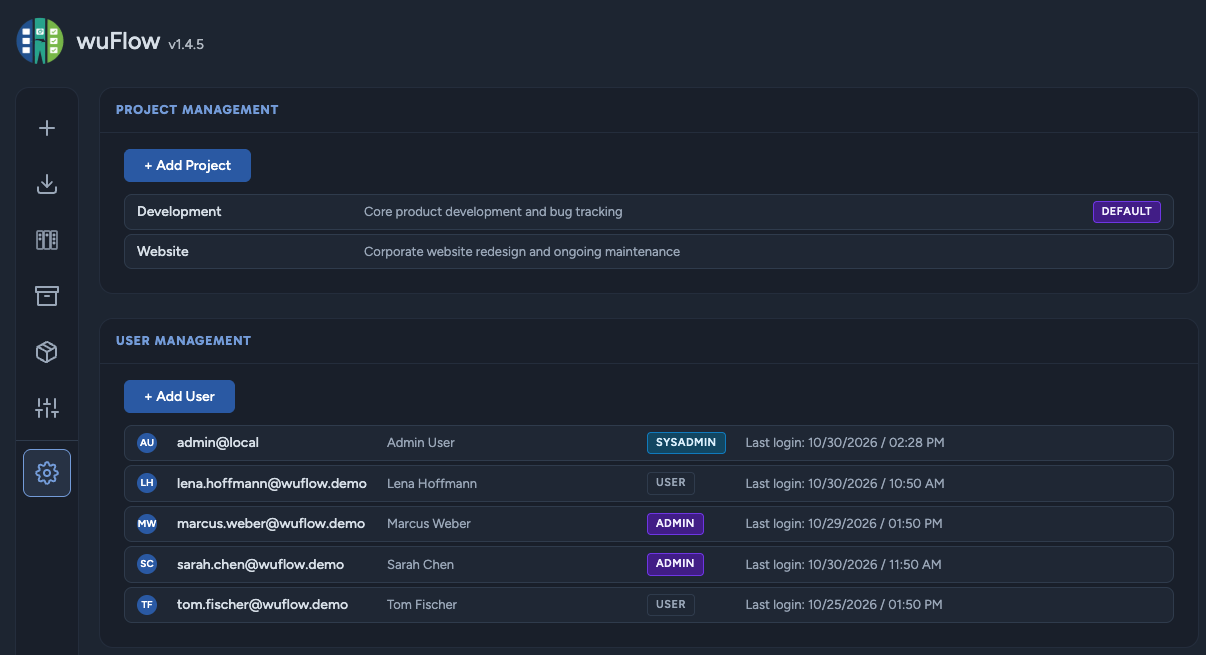
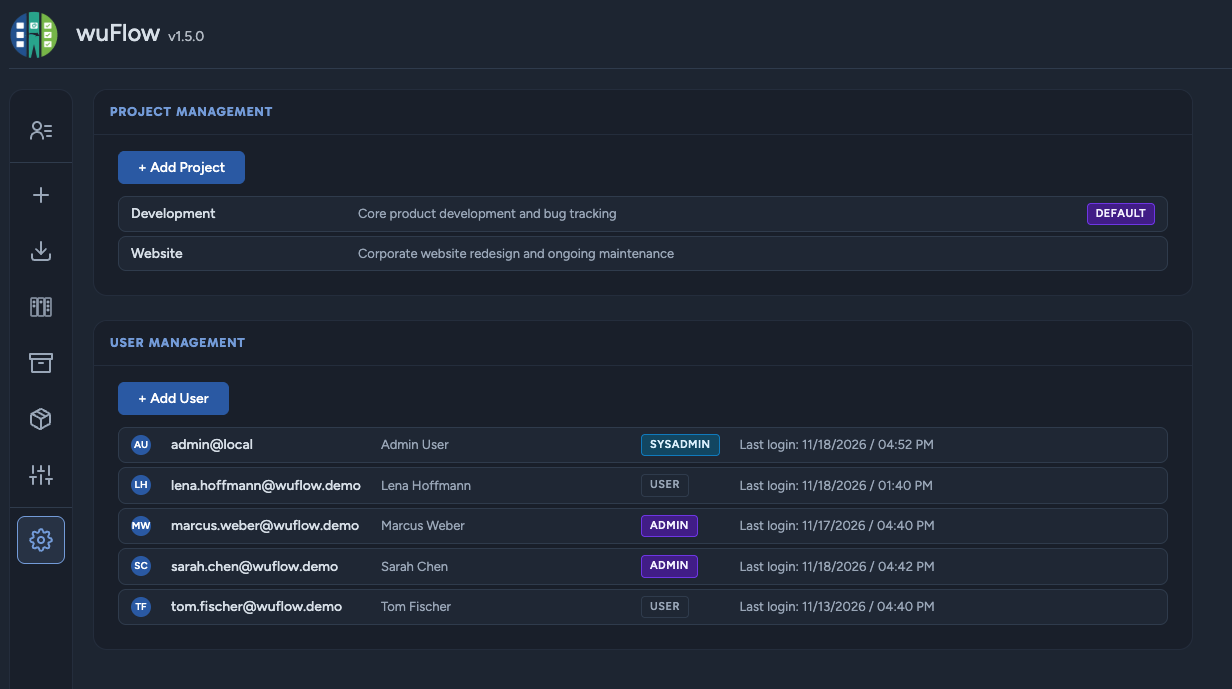
chore(release): Finalized changelog and version for 1.5.0

diff --git a/home-assistant-addon/CHANGELOG.md b/home-assistant-addon/CHANGELOG.md
@@ -1,4 +1,22 @@
 
+# 1.5.0
+
+- Added the My Work view: all active issues assigned to you across all projects, in project lanes sorted by progress and urgency, with your personal planning
+- The header toolbar is now one bar across the full width, set apart from the board by a line, without empty spaces in My Work and the settings views
+- Dropdown lists (filters, project selector, issue dialog, release owner) are now sorted alphabetically, with numbers by value, and long names end in "…" instead of wrapping
+- The text filter is wider, says what it matches (number, title, description)
+- The main menu is now grouped into three sections: My Work, the selected project and System
+- Added "Unassign" to the card's right-click menu for issues assigned to you
+- Fixed: choosing another project in the issue dialog (for a new issue or a move) no longer shows that project's columns and releases on the board behind the dialog
+- Fixed: users without System Settings no longer see a separator line at the bottom of the main menu
+- Fixed: opening a dropdown in the toolbar now closes the one that is open
+- Fixed: an issue archived by dragging it into the Archive section now appears under the current month right away
+- Fixed: the planning sidebar now also marks a deadline red when it is later than the release date, like the card does
+- Bumped marked to 18.2.1 and DOMPurify to 3.4.18
+- Bumped Go to 1.27.4
+- Bumped direct Go package dependencies go-sqlite3 and x/crypto
+- Bumped the Docker base images to Node 24.22.3 and Alpine 3.24.4
+
 # 1.4.6
 
 - Frontend code converted from JavaScript to TypeScript with strict type checking, including types for all API data and a type check in the test suites and in the build

diff --git a/chart/CHANGELOG.md b/chart/CHANGELOG.md
@@ -1,4 +1,7 @@
 
+# 1.5.0
+- Bumped app version to 1.5.0
+
 # 1.4.7
 - Fixed the pod failing to write to a new volume that belongs to root, such as cloud block storage: the pod now sets `fsGroup`. On existing installations, the first start after the upgrade changes the group of all files on the volume once
 
